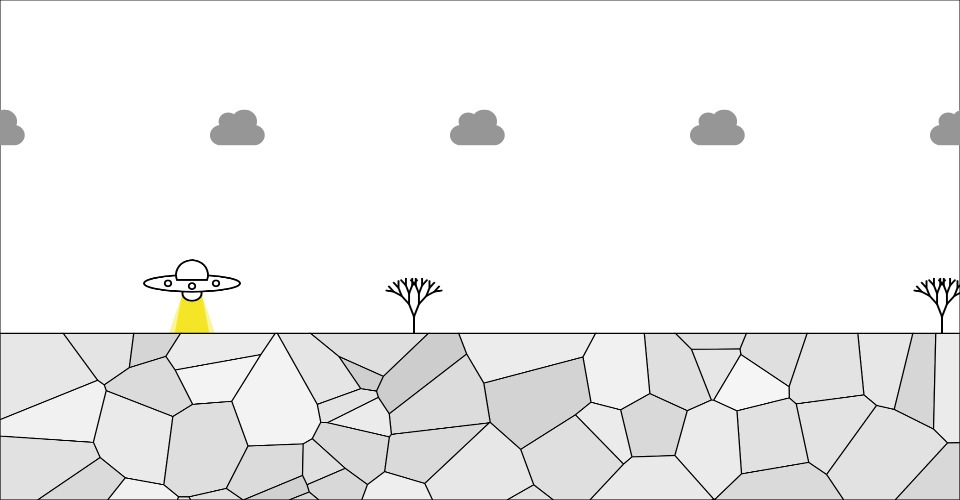
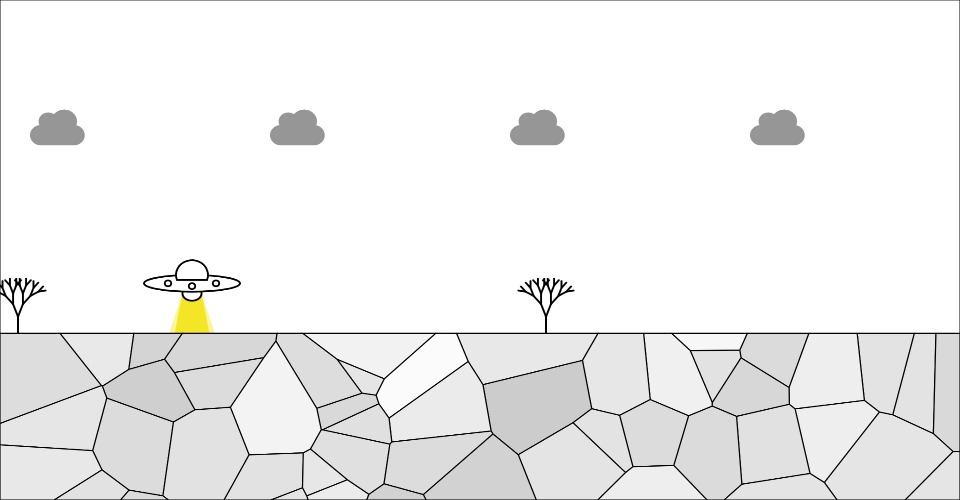
Added ground generation changes

diff --git a/draw_one_frame.js b/draw_one_frame.js
@@ -122,7 +122,7 @@ function drawGround(){
 	let y=0;
 	for (let i = 0; i < voronoiSegments; i++) {
 		x=random(0, width);
-		y=random(0,canvasHeight-groundY+5);
+		y=random(0,canvasHeight-groundY+canvasHeight/20);
 		noiseColor = getNoiseValue(pixelSize*x,pixelSize*y, 0.8, "noiseColor",0,1, width/5 );
 		noiseLerp = lerpColor(color(255),color(200),noiseColor);
 		voronoiSite(x,y,noiseLerp);

diff --git a/README.md b/README.md
@@ -1,1 +1,1 @@
-I have scaled the clouds and I think it looks a lot better as there is less negative space in the sky.I also adjusted the voronoi pattern and the bottom becuase there were a few tiny sedgments that looked weird.
+Added ground point generation changes
